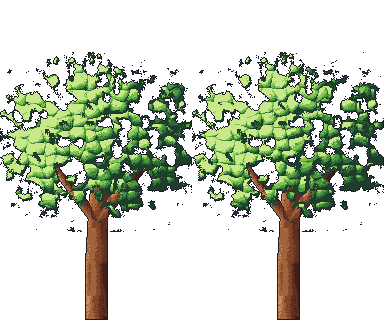
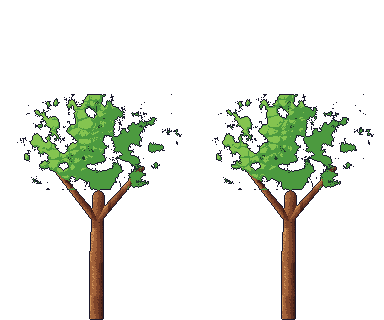
trial(trees): route A round 3 - the crown cut to the reference's width, the body lifted (cap and floor knobs)
Issue #543

Claude-Session: https://claude.ai/code/session_01PpsERsd1uPeC5CBeaCCwZF

diff --git a/tools/src/art/foliage.ts b/tools/src/art/foliage.ts
@@ -82,6 +82,10 @@ export interface MassOptions {
   side?: number;
   /** Trial: a lit rim on each clump's upper left and a shaded underside on its lower right, in steps. */
   rim?: number;
+  /** Trial: the brightest ramp step the crown may use (5 is the whole ramp; 4 keeps the palest leaf off the ramp's top). */
+  cap?: number;
+  /** Trial: the darkest ramp step the crown may use (1 is the ramp's ink-side step; 2 lifts the body). */
+  floor?: number;
 }
 
 /**
@@ -166,12 +170,13 @@ export function drawMass(png: PNG, o: MassOptions): Uint8Array {
       if (above > height[y * w + x]! + 0.12) v -= 0.8;
       // the crevice between two clumps is darker
       if (second - near < 2.2) v -= 1.0;
-      let step = Math.max(1, Math.min(5, Math.round(v)));
+      const lo = o.floor ?? 1;
+      let step = Math.max(lo, Math.min(o.cap ?? 5, Math.round(v)));
       // a pale leaf glint on a lit clump
-      if (glints > 0 && step >= 4 && hash3(seed + 11, x, y) > 1 - 0.02 * glints) step = 5;
+      if (glints > 0 && step >= 4 && hash3(seed + 11, x, y) > 1 - 0.02 * glints) step = o.cap ?? 5;
       // the lower right is the darkest green, one step in from the ink
-      if (lowerRight(x, y)) step = Math.min(step, 1);
-      else if (!px(x + 2, y + 2) && step > 1) step -= 1;
+      if (lowerRight(x, y)) step = Math.min(step, lo);
+      else if (!px(x + 2, y + 2) && step > lo) step -= 1;
       put(png, o.ox + x, o.oy + y, o.ramp[step]!);
     }
   }

diff --git a/tools/src/art/trees.ts b/tools/src/art/trees.ts
@@ -88,6 +88,8 @@ const OAK = {
   ragged: 1,
   side: 0,
   rim: 0,
+  cap: 5,
+  floor: 1,
   roots: 1, // 0 drops the root flare: a column foot
   boxH: 180,
   ...(JSON.parse(process.env.OAK_TUNE ?? '{}') as Record<string, number>),
@@ -107,7 +109,7 @@ function oak(frame: number): PNG {
   const box = { oy: 52 + (180 - OAK.boxH) / 2, h: OAK.boxH };
   const L = OAK.lobe;
   const lobes = swayed(crownLobes(31, W, box.h, 96, OAK.cy, OAK.rx, OAK.ry, [[0.6, 9, 29 * L], [1, 13, 25 * L]], 38 * L), box.h, frame, 2.5);
-  drawMass(png, { ox: 0, oy: box.oy, w: W, h: box.h, seed: 31, lobes, ramp: GREEN, clump: OAK.clump, tone: OAK.tone, contrast: OAK.contrast, glints: OAK.glints, ragged: OAK.ragged, side: OAK.side, rim: OAK.rim, shift: [frame * 3, frame * 2] });
+  drawMass(png, { ox: 0, oy: box.oy, w: W, h: box.h, seed: 31, lobes, ramp: GREEN, clump: OAK.clump, tone: OAK.tone, contrast: OAK.contrast, glints: OAK.glints, ragged: OAK.ragged, side: OAK.side, rim: OAK.rim, cap: OAK.cap, floor: OAK.floor, shift: [frame * 3, frame * 2] });
   return finish(png);
 }
 
